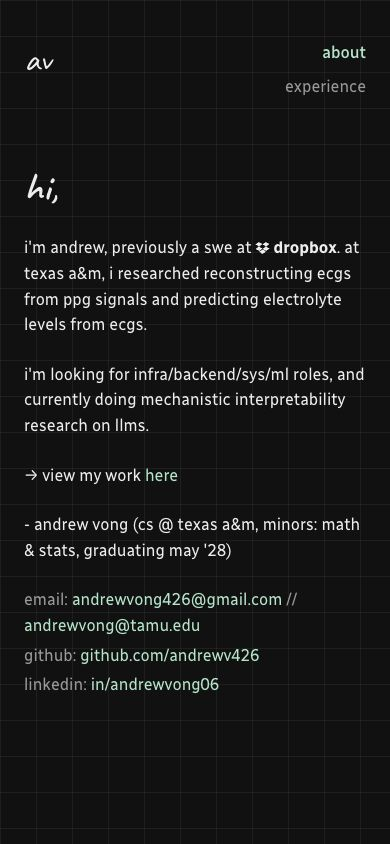
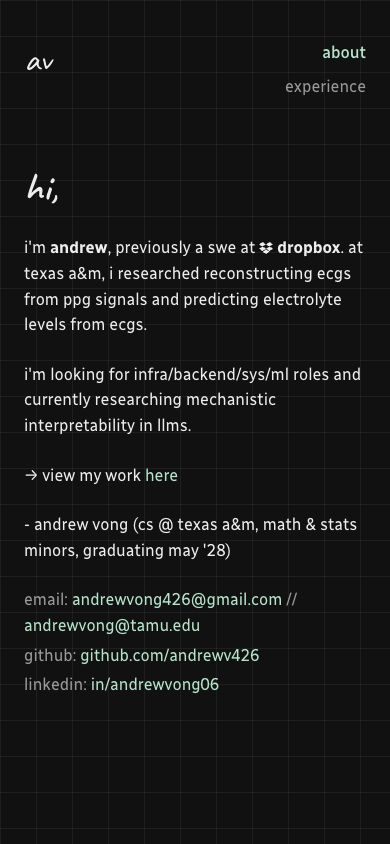
style: smooth About copy and highlight Andrew on hover

diff --git a/src/pages/About.jsx b/src/pages/About.jsx
@@ -5,8 +5,8 @@ function About() {
     <section className="page">
       <h1>hi,</h1>
       <p>
-        i'm andrew, previously a swe at{" "}
-        <strong className="company-name">
+        i'm <strong className="text-highlight">andrew</strong>, previously a swe at{" "}
+        <strong className="text-highlight">
           <svg className="company-icon" aria-hidden="true" focusable="false">
             <use href="/icons.svg#dropbox-icon" />
           </svg>
@@ -16,14 +16,14 @@ function About() {
         predicting electrolyte levels from ecgs.
       </p>
       <p>
-        i'm looking for infra/backend/sys/ml roles, and currently doing
-        mechanistic interpretability research on llms.
+        i'm looking for infra/backend/sys/ml roles and currently researching
+        mechanistic interpretability in llms.
       </p>
       <p>
         → view my work <Link className="link-accent" to="/experience">here</Link>
       </p>
       <p>
-        - andrew vong (cs @ texas a&amp;m, minors: math &amp; stats, graduating
+        - andrew vong (cs @ texas a&amp;m, math &amp; stats minors, graduating
         may '28)
       </p>
       <ul className="link-list" aria-label="contact links">

diff --git a/src/App.css b/src/App.css
@@ -250,11 +250,11 @@ section {
   font-size: 2.5rem;
 }
 
-.company-name {
+.text-highlight {
   position: relative;
   white-space: nowrap;
 }
-.company-name::after {
+.text-highlight::after {
   content: "";
   position: absolute;
   left: 0;
@@ -266,7 +266,7 @@ section {
   transform-origin: left center;
   transition: transform 250ms ease;
 }
-.company-name:hover::after {
+.text-highlight:hover::after {
   transform: scaleX(1);
 }
 .company-icon {
